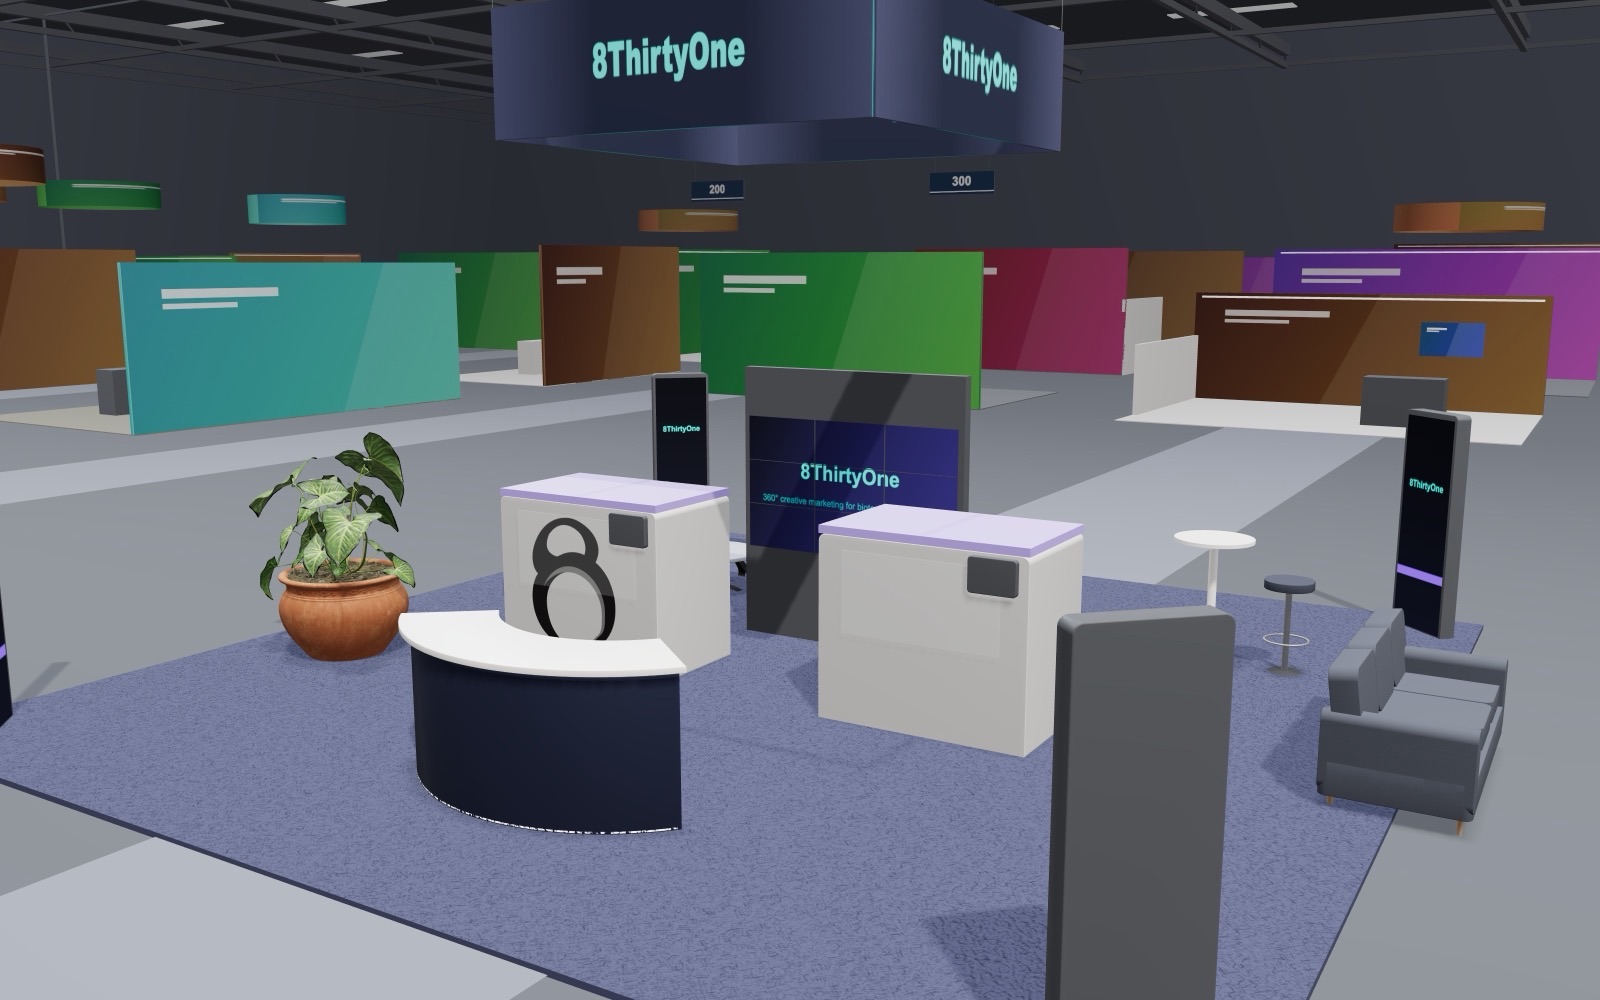
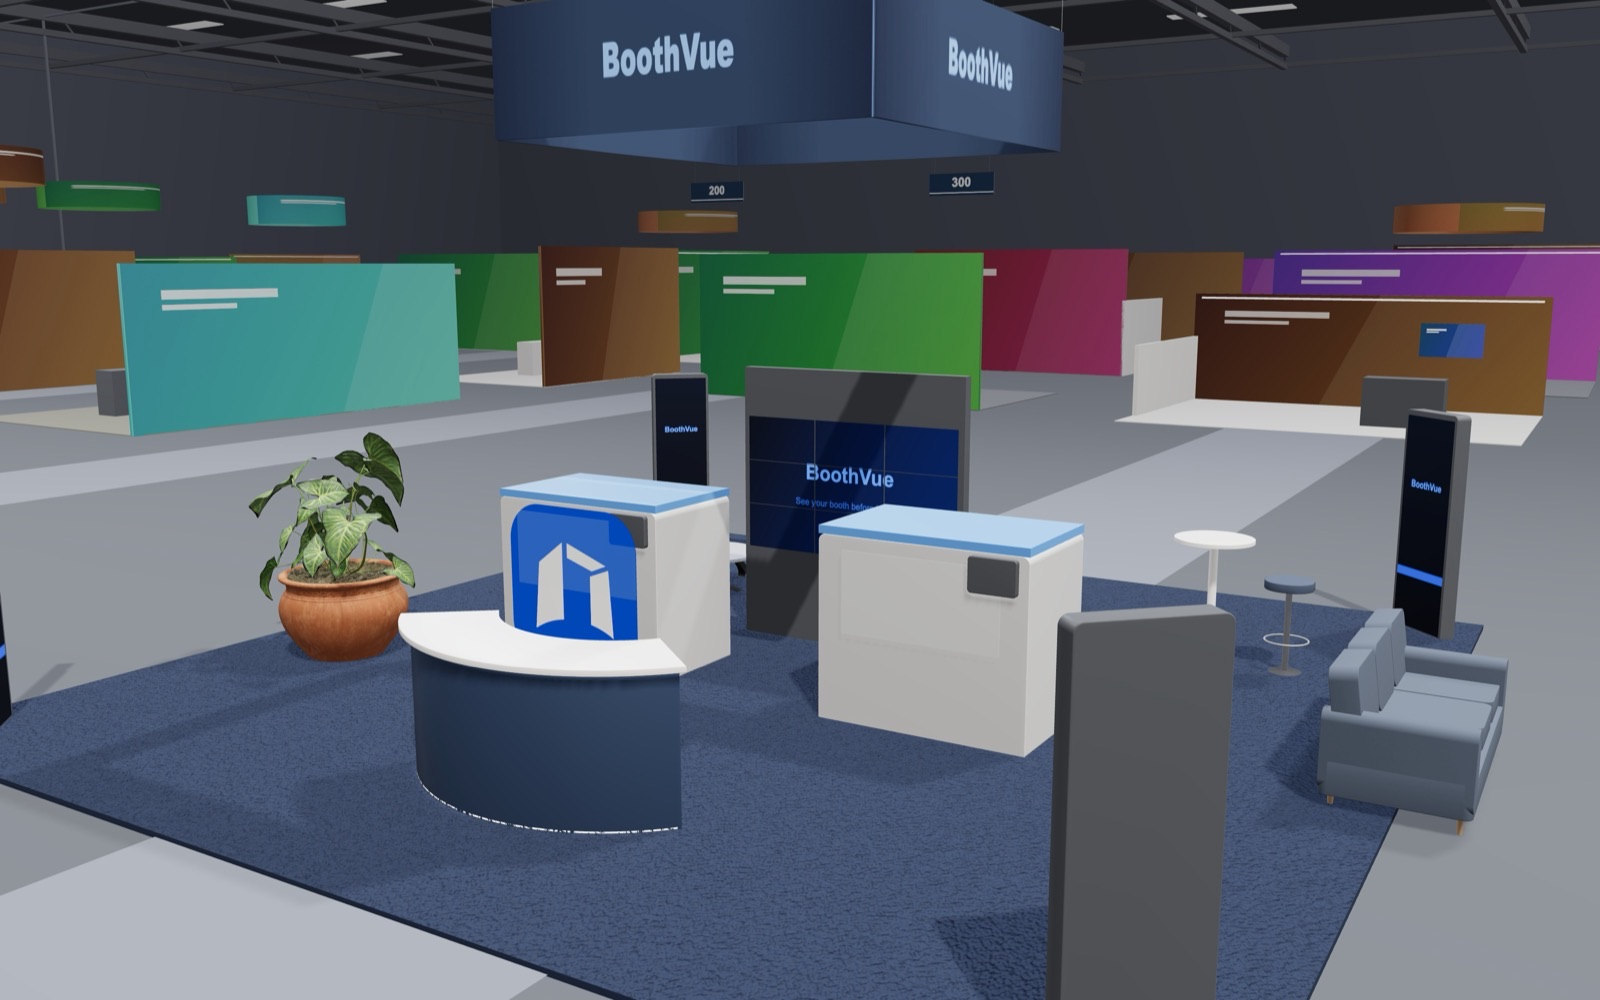
Workflow demos: steps 1 and 4 now show the BoothVue brand (boothvue.co)

diff --git a/workflow/index.html b/workflow/index.html
@@ -92,15 +92,15 @@
       <div class="wrap walk-row">
         <div class="walk-media">
           <div class="browser"><div class="browser-bar" aria-hidden="true"><span></span><span></span><span></span></div>
-            <div class="ba-frames"><img src="/img/step1-before.jpg" width="1600" height="1000" loading="lazy" alt="" aria-hidden="true"><img class="ba-after" src="/img/step1-after.jpg" width="1600" height="1000" loading="lazy" alt="A lounge booth branded for 8ThirtyOne from its website: navy walls, teal lettering, the company name and tagline on the back wall"></div>
+            <div class="ba-frames"><img src="/img/step1-before.jpg?v=2" width="1600" height="1000" loading="lazy" alt="" aria-hidden="true"><img class="ba-after" src="/img/step1-after.jpg?v=2" width="1600" height="1000" loading="lazy" alt="An inline booth branded for BoothVue from its website: midnight navy walls, the company name and tagline on the back wall and counter"></div>
           </div>
           <div class="ui-card ui-brand ba-card" aria-hidden="true">
             <div class="ui-card-head">Brand from your website</div>
-            <div class="ba-url"><span class="ba-type" data-text="8thirtyone.com"></span><i class="ba-caret"></i><b class="ba-go">Get Brand</b></div>
-            <div class="ui-row ba-r"><span>Company</span><b>8ThirtyOne</b></div>
-            <div class="ui-row ba-r"><span>Tagline</span><b>360° creative marketing</b></div>
-            <div class="ui-row ba-r"><span>Colors</span><i style="background:#070912"></i><i style="background:#7c6cff"></i><i style="background:#19d3c5"></i><i style="background:#14172a"></i></div>
-            <div class="ui-row ba-r"><span>Style</span><b>Midnight navy, teal glow</b></div>
+            <div class="ba-url"><span class="ba-type" data-text="boothvue.co"></span><i class="ba-caret"></i><b class="ba-go">Get Brand</b></div>
+            <div class="ui-row ba-r"><span>Company</span><b>BoothVue</b></div>
+            <div class="ui-row ba-r"><span>Tagline</span><b>See your booth before it’s built</b></div>
+            <div class="ui-row ba-r"><span>Colors</span><i style="background:#0d1526"></i><i style="background:#2563eb"></i><i style="background:#4f8cff"></i><i style="background:#070b16"></i></div>
+            <div class="ui-row ba-r"><span>Style</span><b>Midnight navy, electric blue</b></div>
           </div>
         </div>
         <div class="walk-copy">
@@ -184,10 +184,10 @@
         </div>
         <div class="browser dm-wide demo-views"><div class="browser-bar" aria-hidden="true"><span></span><span></span><span></span></div>
           <div class="dm-stack">
-            <img src="/img/step4-3d.jpg" width="1600" height="1000" loading="lazy" alt="The 8ThirtyOne island booth in the 3D view">
-            <img src="/img/step4-front.jpg" width="1600" height="1000" loading="lazy" alt="" aria-hidden="true">
-            <img src="/img/step4-plan.jpg" width="1600" height="1000" loading="lazy" alt="" aria-hidden="true">
-            <img src="/img/step4-eye.jpg" width="1600" height="1000" loading="lazy" alt="" aria-hidden="true">
+            <img src="/img/step4-3d.jpg?v=2" width="1600" height="1000" loading="lazy" alt="The BoothVue island booth in the 3D view">
+            <img src="/img/step4-front.jpg?v=2" width="1600" height="1000" loading="lazy" alt="" aria-hidden="true">
+            <img src="/img/step4-plan.jpg?v=2" width="1600" height="1000" loading="lazy" alt="" aria-hidden="true">
+            <img src="/img/step4-eye.jpg?v=2" width="1600" height="1000" loading="lazy" alt="" aria-hidden="true">
             <div class="dm-bar" aria-hidden="true"><i>3D</i><i>Front</i><i>Plan</i><i>Eye</i></div>
             <div class="dm-saved" aria-hidden="true">✓ 4K render saved</div>
           </div>
